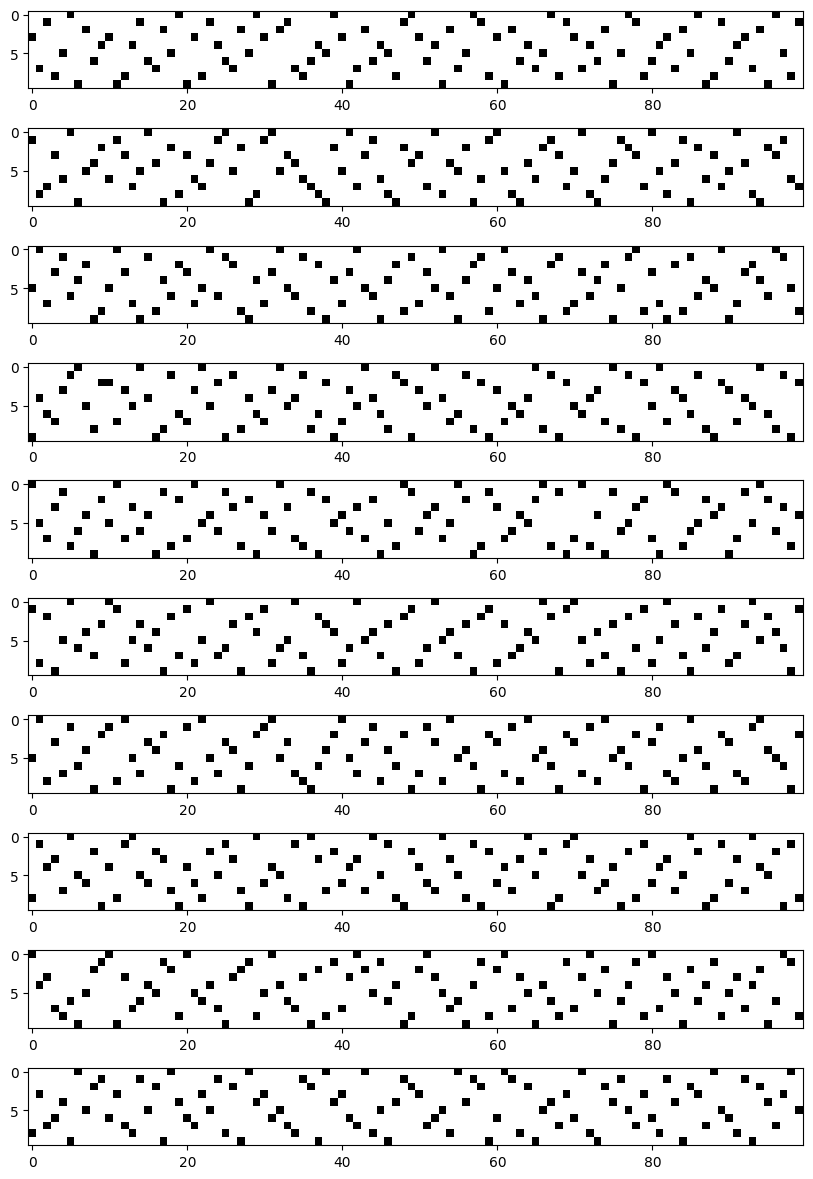
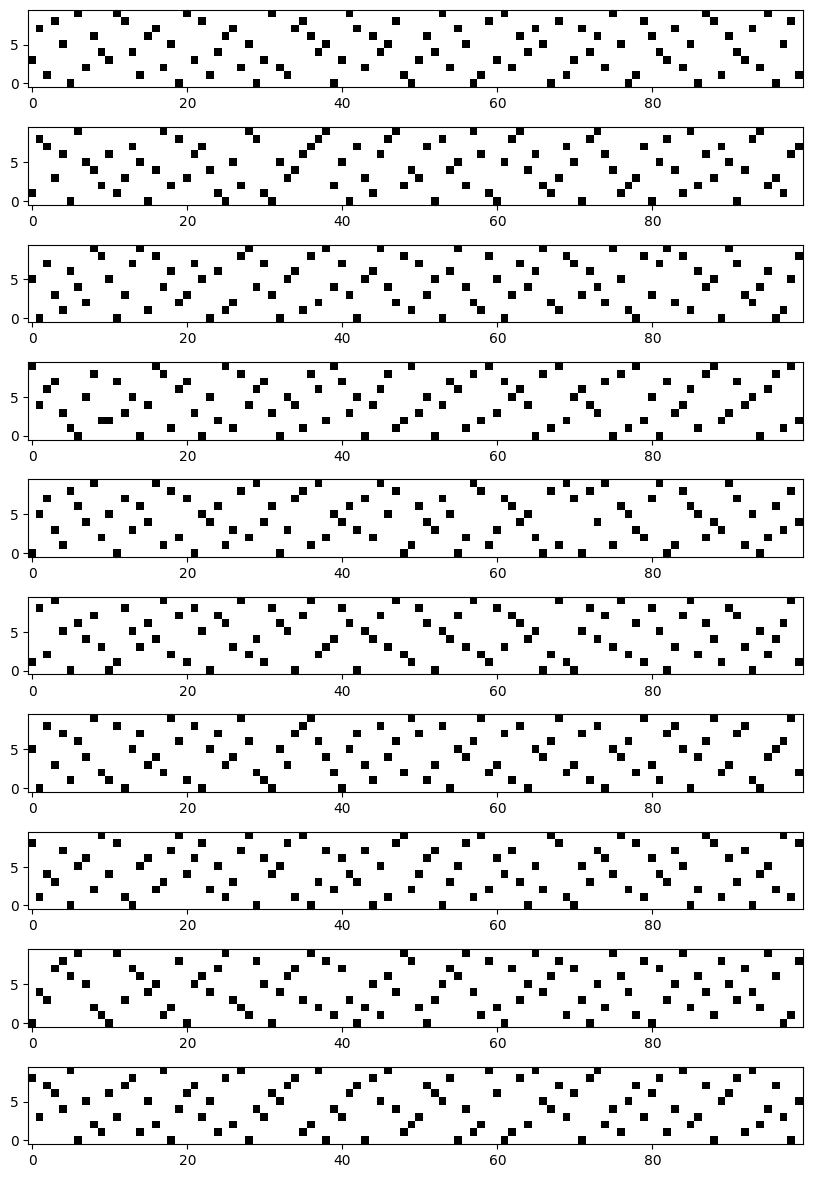
invert y axis

Changed region(s): [[0.0, 0.0, 1.0, 1.0]]

diff --git a/benchplot.py b/benchplot.py
@@ -105,7 +105,7 @@ def plot_scheduling_dist(scheduling_dist):
             for task_idx in tasks:
                 data[total, task_idx] = 0
             total += 1
-        ax.imshow(data, cmap='gray')
+        ax.imshow(data, cmap='gray', origin='lower')
     return fig
 
 
